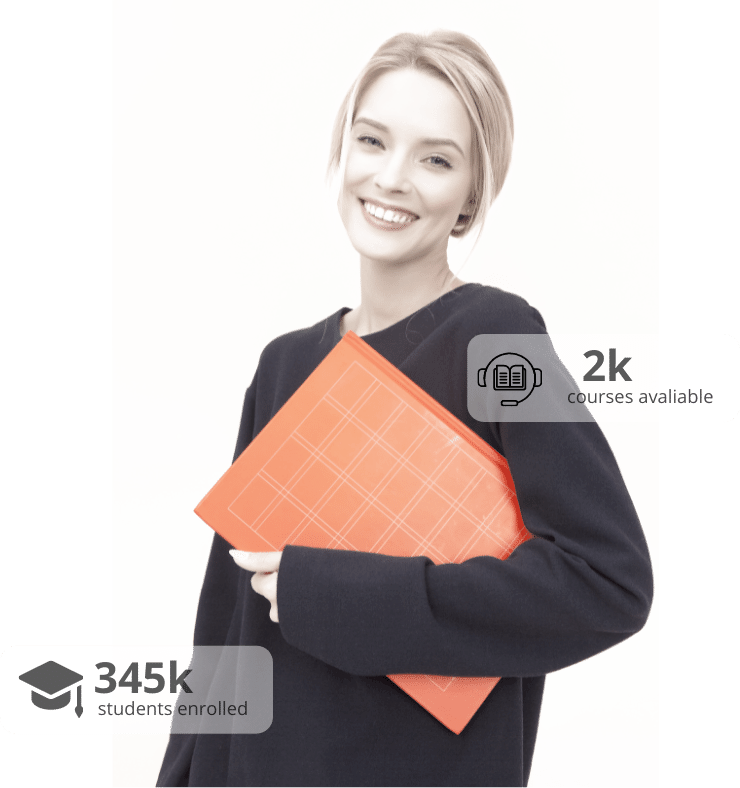
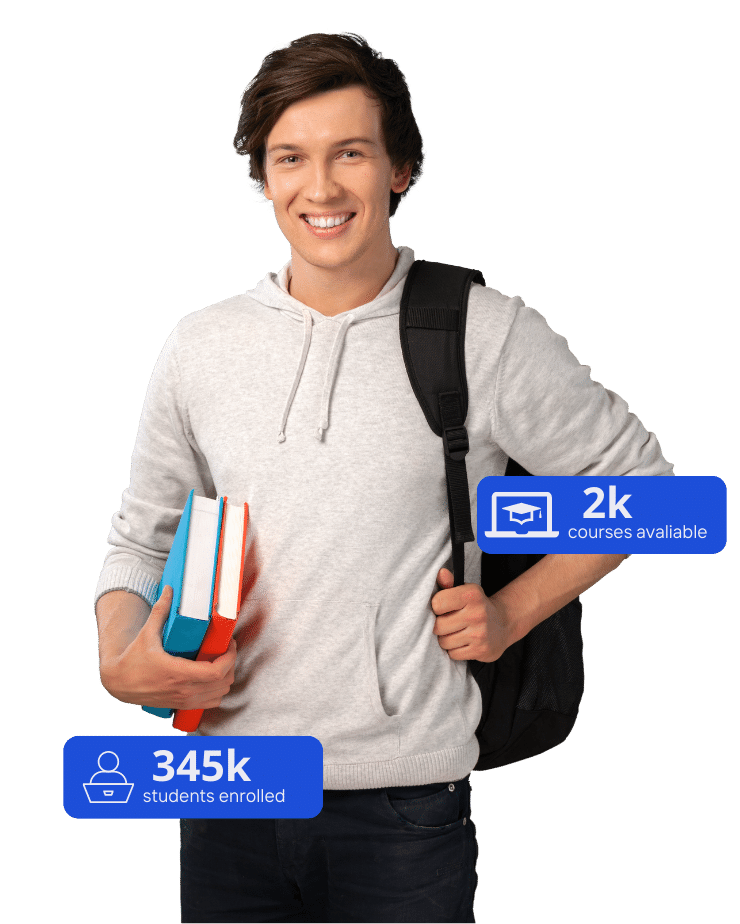
feat: hero 🐱👤 , readme 📑

diff --git a/src/Components/Footer.tsx b/src/Components/Footer.tsx
@@ -12,13 +12,13 @@ const Footer = () => {
                     <h3 className="text-xl text-blue-600 font-roboto">Subscribe to Get Notify</h3>
                     <p className="text-sm">Lorem ipsum dolor sit amet consectetur adipisicing elit. Asperiores obcaecati iste cum rem non assumenda doloribus, tempore architecto quo laboriosam totam voluptatem voluptatibus dicta at placeat autem ab quae perferendis?</p>
                     <form className="flex flex-row my-6 w-full px-4 md:px-14">
-                        <input type='text' className="text-sm border border-blue-600 px-2 py-1 rounded-l w-full" placeholder="Your Email" />
-                        <button className="px-2 py-1 rounded-r bg-blue-600 tracking-wideer text-xs text-white">SUBSCRIBE </button>
+                        <input type='text' className="text-sm border border-blue-600 px-2 py-1.5 rounded-l w-full" placeholder="Your Email" />
+                        <button className="px-2 py-1.5 rounded-r bg-blue-600 tracking-wideer text-sm text-white">SUBSCRIBE </button>
                     </form>
                 </div>
             </div>
             <div className="bg-gray-850 px-4 md:px-36 md:h-96 md:pt-32 text-white flex flex-col md:flex-row gap-8 md:gap-0">
-                <div className='flex flex-col gap-2 md:w-96 mt-16 items-center md:items-start text-center md:text-left'>
+                <div className='flex flex-col gap-2 md:w-96 items-center md:items-start text-center md:text-left'>
                     <div className='flex items-center gap-2'>
                     <img src={logo} alt="logo" className="h-14" style={{filter: 'invert(90%)'}} />
                     <span className="text-xl text-white">Educourses</span>

diff --git a/src/Home/Components/Hero.tsx b/src/Home/Components/Hero.tsx
@@ -45,7 +45,7 @@ const Hero: React.FC = () => {
     const history = useHistory();
     const [searchData,setsearchData] = useState('');
     return(
-        <div className="flex flex-col md:flex-row justify-center items-end md:h-screen px-4 md:px-16">
+        <div className="flex flex-col md:flex-row justify-center md:h-90 items-end px-4 md:px-16">
             <div 
             className="md:max-w-1/2 flex flex-col gap-4 justify-end py-16">
                 <h1 className="text-3xl md:text-5xl text-center font-bold">

diff --git a/src/constants/courses.tsx b/src/constants/courses.tsx
@@ -29,7 +29,7 @@ const _items = [
         discountedPrice : '$9.99',
         rating : 2.3,
         reviewCount : '5.5k+',
-        instructor : 'Abhay Gupta',
+        instructor : 'Obama John',
         catagory : 'Communication',
         imgUrl : 'https://images.unsplash.com/photo-1507537297725-24a1c029d3ca?ixlib=rb-1.2.1&ixid=MnwxMjA3fDB8MHxzZWFyY2h8MTl8fGNvdXJzZXN8ZW58MHx8MHx8&auto=format&fit=crop&w=500&q=60',
     },

diff --git a/src/Components/Loader.tsx b/src/Components/Loader.tsx
@@ -2,7 +2,7 @@ import React from 'react';
 
 export default function Loader({ width = 16, height = 16, color = 'orange-900' }) {
   return (
-    <div className="w-full h-full flex justify-center items-center">
+    <div className="w-screen h-screen flex justify-center items-center">
       <div
         className={`animate-spin rounded-full h-${height} w-${width} border-b-2 border-${color}`}
       ></div>

diff --git a/src/index.css b/src/index.css
@@ -6,6 +6,9 @@ body {
   background-color: #EBEBF3;
   font-family: 'Poppins', sans-serif;
   font-size: 16px;
+  width: 100vw;
+  overflow-x: hidden;
+  min-height: 100vh;
 }
 @media screen and (max-width: 768px) {
   body {
@@ -95,4 +98,8 @@ select {
     min-height: 22.2rem;
   }
   
+}
+
+input:focus{
+  outline: none;
 }

diff --git a/index.html b/index.html
@@ -5,6 +5,7 @@
     <link rel="icon" type="image/svg+xml" href="/src/favicon.svg" />
     <meta name="viewport" content="width=device-width, initial-scale=1.0" />
     <title>EduCourses App</title>
+    <link rel="icon" type="image/svg+xml" href="/src/assets/img/school.svg" />
   </head>
   <body>
     <div id="root"></div>

diff --git a/src/App.tsx b/src/App.tsx
@@ -11,7 +11,7 @@ const App: React.FC = () => {
     <BrowserRouter>
     <Suspense fallback={<Loader />}>
       <Switch>
-<div className='font-poppins'>
+<div className='w-screen overflow-hidden font-poppins'>
     <Navbar />
     <Routes />
     <Footer />

diff --git a/tailwind.config.js b/tailwind.config.js
@@ -260,6 +260,7 @@ module.exports = {
         22: '5.6rem',
         24: '6rem',
         32: '8rem',
+        90: '90vh'
       },
       maxHeight: {
         sm: '31.5rem',

diff --git a/README.md b/README.md
@@ -1,10 +1,32 @@
-# Vite tempelate with React, Typescript, ESlint, CommitLint setup
+<div align="center"><h1> EduCourses [Web App] </h1>
+This is Frontend of **Application**, designed using **React and Typescript** for Educational Courses Site.
+</div>
+<br>
+<h2>Live Preview</h2>
+Deploy Link - <a href="https://edu-courses.netlify.app/">https://edu-courses.netlify.app/</a>
+<br/>
 
-## List of Commands:
-### Install dependencies - ```yarn```
-### Lint all files - ```yarn lint```
-### Run project - ```yarn dev```
-### Create build for prod - ```yarn build```
+<br>
+<h2>📝 Contribution </h2>
+This repo is open to contribution and modifications,<br>
+- <b>Star</b> this Repository.<br>
+- <b>Fork</b> this Repository.<br>
+- <b>Clone</b> this Repository from your Github to Local Machine.<br>
+- Create a <b>New Branch</b> and do edits.<br>
+- <b>Push</b> to origin.<br>
+- Create <b>Pull Request to this Repository</b>.<br>
 
-## Git commit format:
-### ```git commit -m <subject>:<messsage>```
+## 👩💻 Tech Stack 
+HTML5 , CSS3 , JS , ReactJS , Netlify , Git, TypeScript
+
+
+## 💠List of Commands:
+Install dependencies - ```yarn```
+Lint all files - ```yarn lint```
+Run project - ```yarn dev```
+Create build for prod - ```yarn build```
+Git commit format - ```git commit -m <subject>:<messsage>```
+
+
+<b><i>Star this Repository and you can visit to my profile and see some more Projects like this.</i></b><br/>
+*Mail me at <a href="mailto:hi+CpBuddy@abhaygupta.me">hi@abhaygupta.me</a> for any collaboration or queries.*
